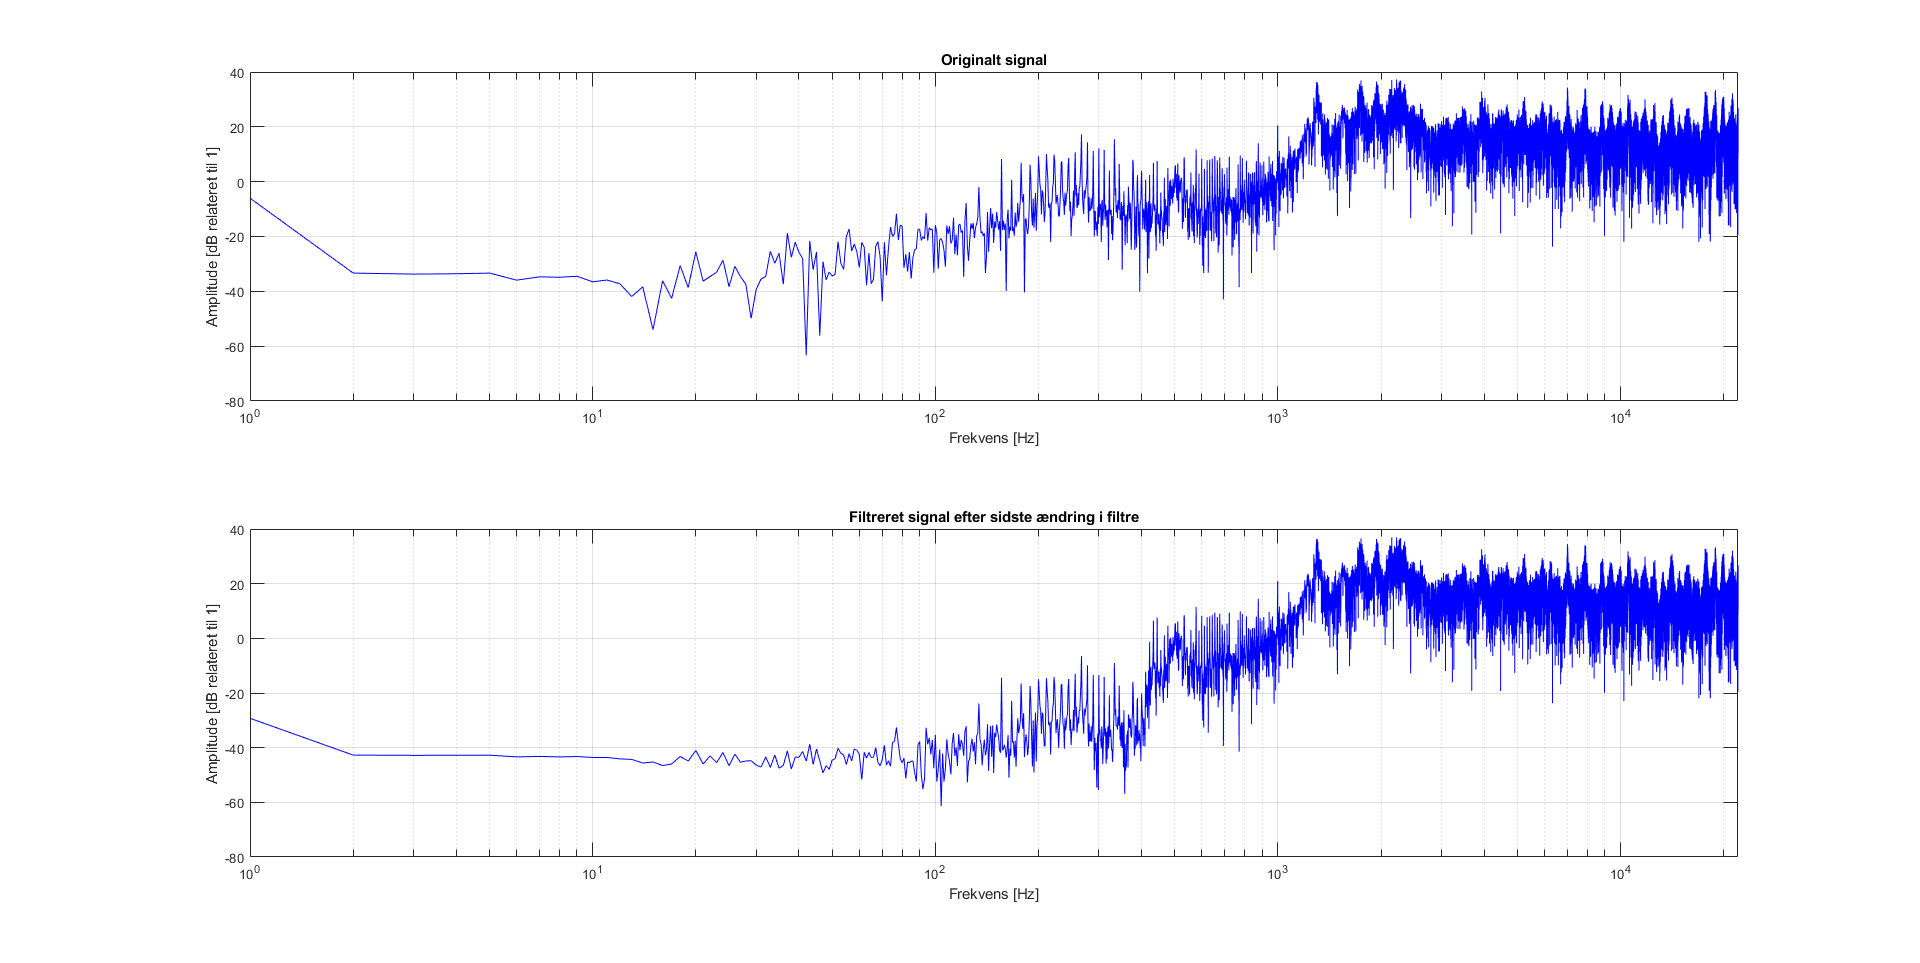
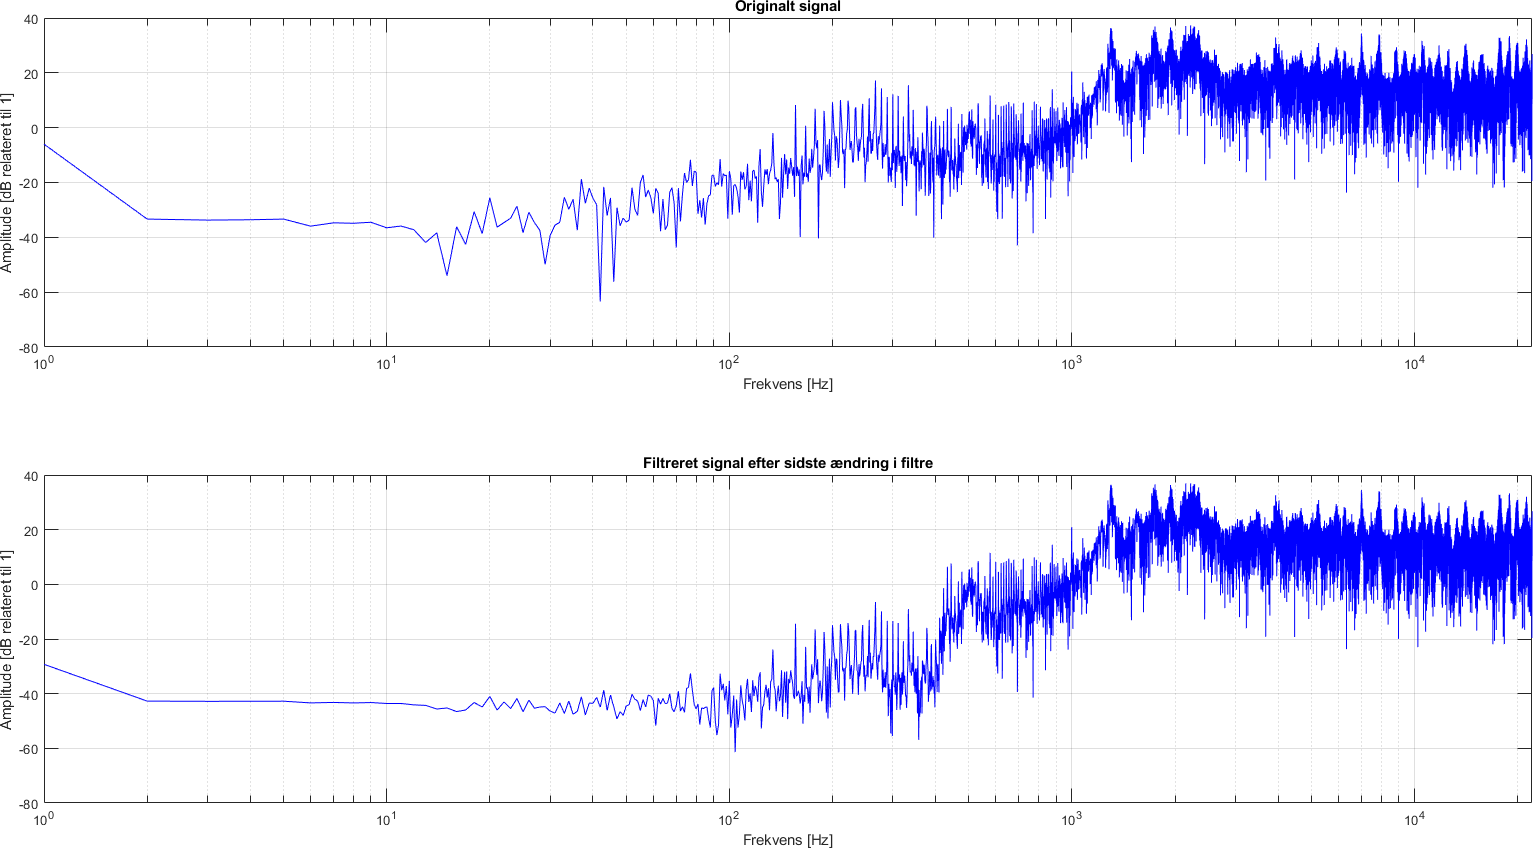
Added groupdelay and a bunch of figures

diff --git a/CASE 4/Case4_live_eq.m b/CASE 4/Case4_live_eq.m
@@ -312,11 +312,9 @@ title('Impulsrespons');
 legend('Impulsrespons for samlet filter');
 
 %%
-%[gd, f_akse2] = grpdelay(hz_sos_tot, 1:1:fs/2, fs)
-
-%figure(5)
-%plot(f_akse2, gd)
-%title("Group delay")
+figure(5)
+grpdelay(hz_sos_tot)
+title("Group Delay")
 
 %% Functions must be at end of document
 function bandfunc1(event)
